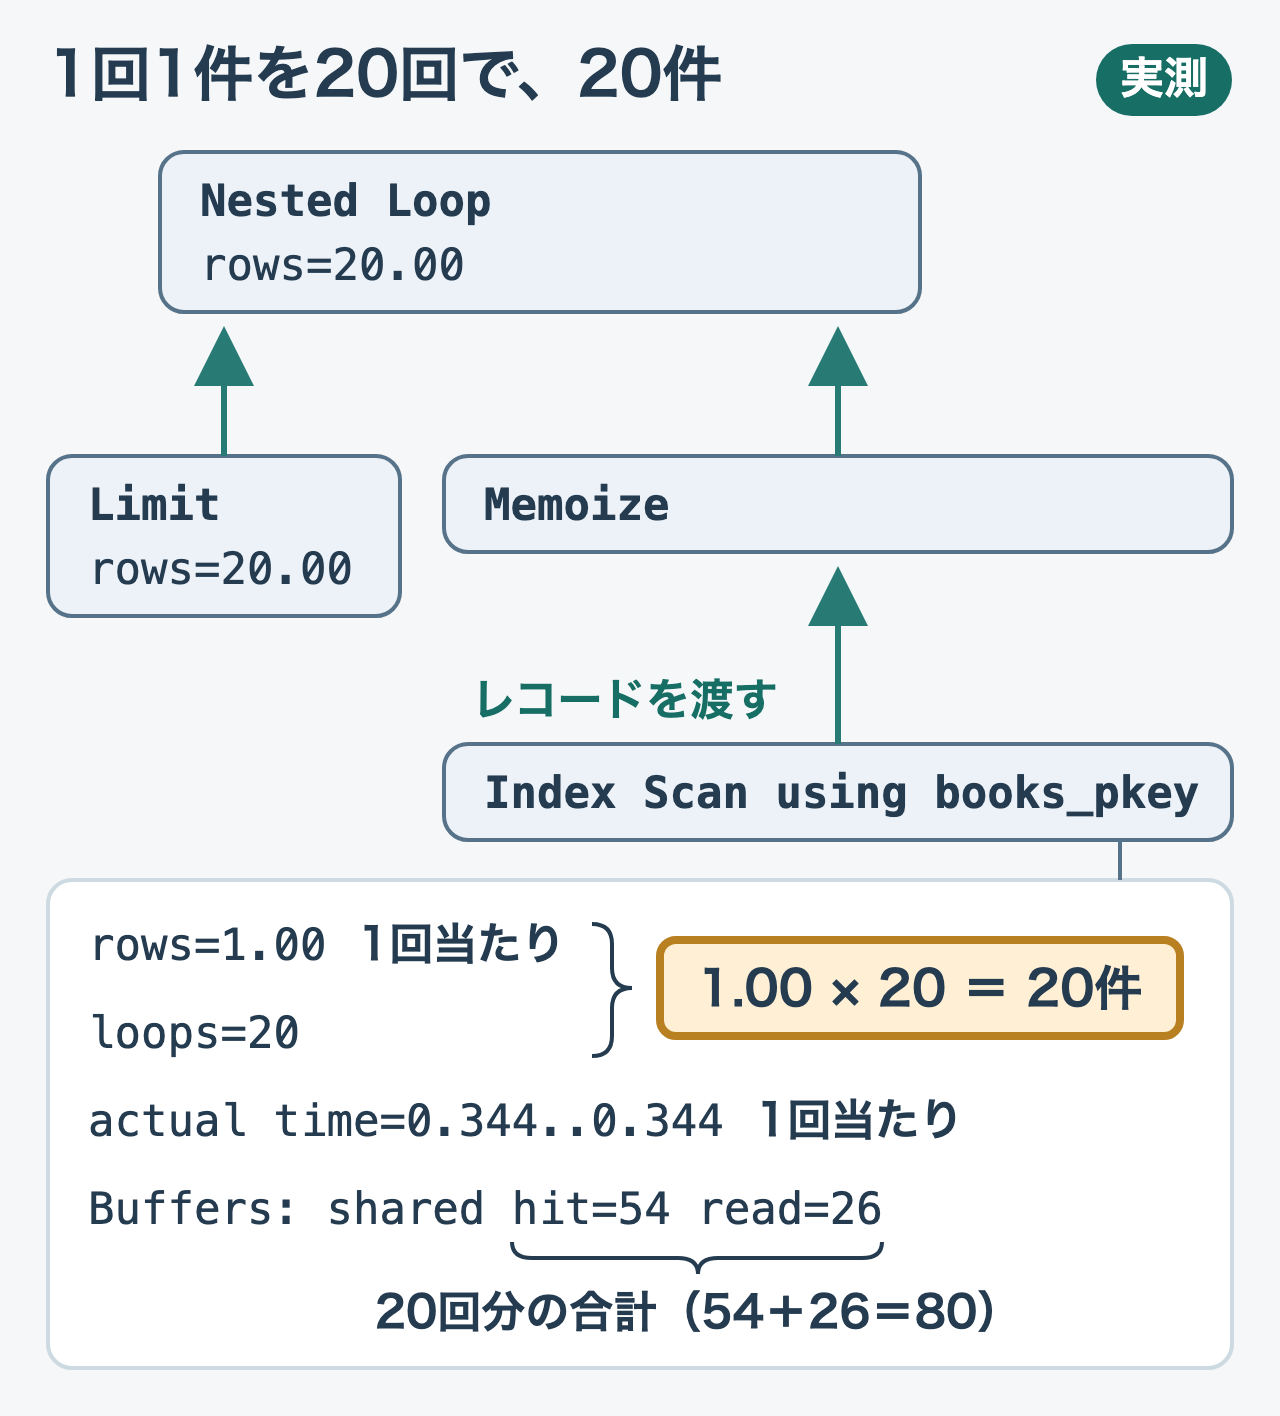
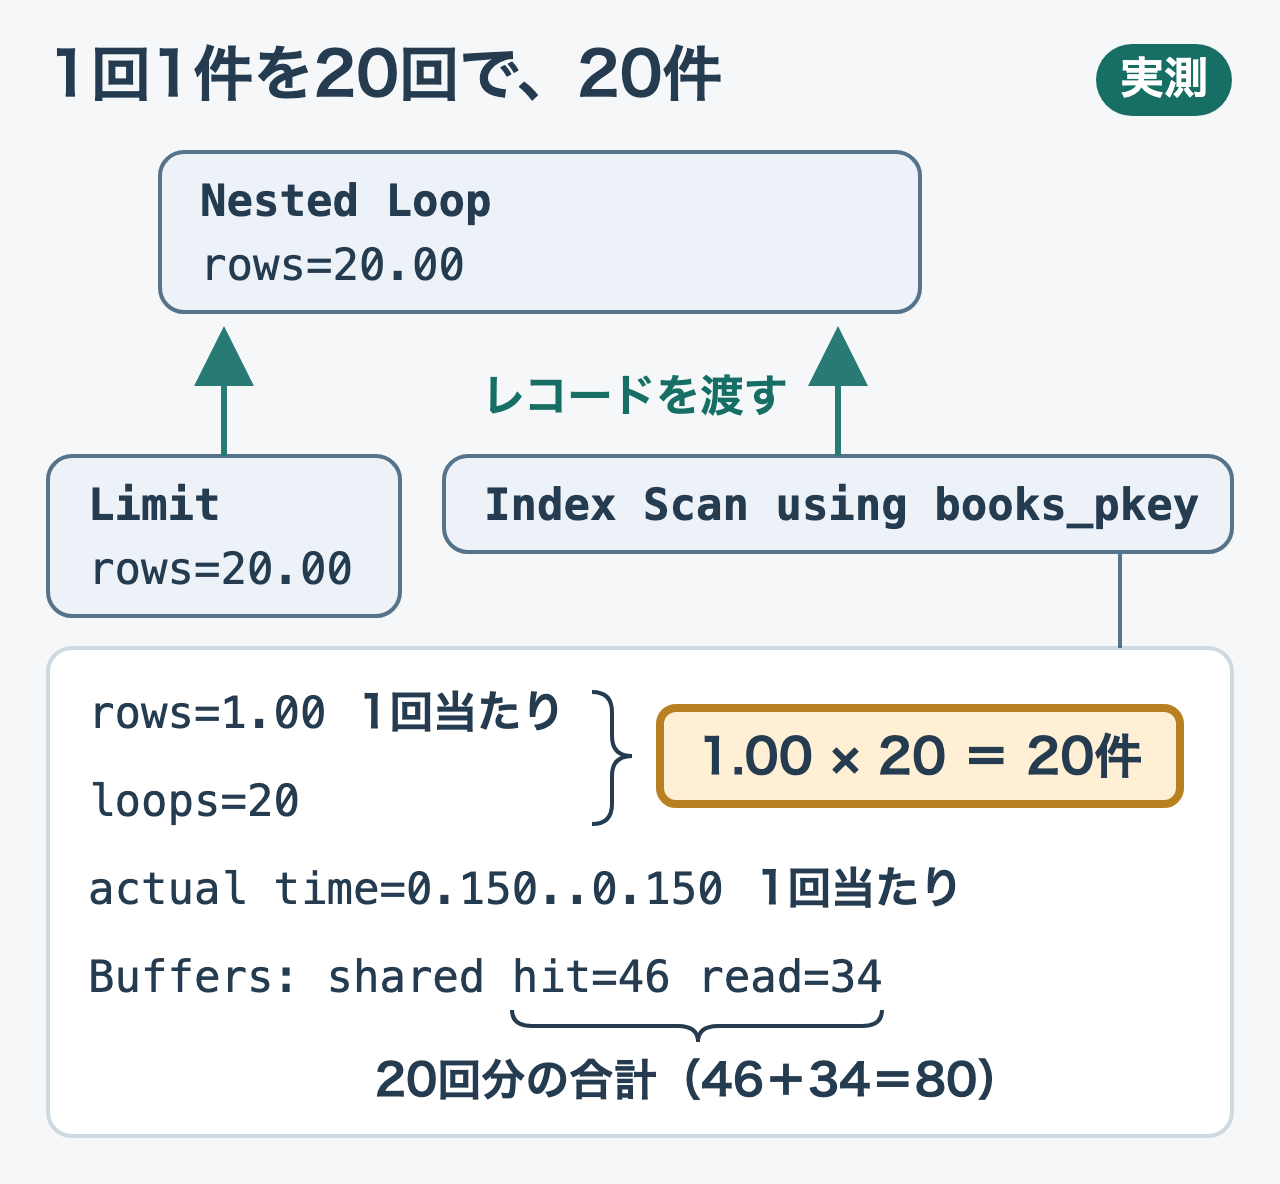
docs(query-journey): 第9章の出力を偏りのあるデータで取り直す
20件の結合・1週間分のHash Join・Merge Join・本ごとの集約の出力を、
新しいデータの実行結果に差し替える。

- 20件の結合から Memoize が消えたので、その説明の段落を外し、
  図 09-loops からも Memoize の段を外した（数字も hit=46 read=34 に）
- Merge Join は 200件から141件になった。「1冊に2件ずつ」を前提にした
  説明を、記録のある本だけが組になる説明に直した
- 集約のグループは100万個から736,097個になった。見積もりとの大きな
  ずれに一文だけ触れ、見積もりの作り方は第10章へ渡した

64kB の節の出力は、今回の再実行（旧データでも）と計画が合わないが、
偏りとは別の問題なのでこのコミットでは触れていない。

Changed region(s): [[0.0312, 0.0312, 0.9688, 0.9688], [0.8438, 0.0312, 0.9688, 0.125], [0.0625, 0.6562, 0.25, 0.6875]]

diff --git a/books/postgresql-query-journey/09-join.md b/books/postgresql-query-journey/09-join.md
@@ -55,45 +55,39 @@ ORDER BY r.finished_at DESC, r.book_id ASC;
 
 先ほどのSQLの実行結果です。条件は次のとおりです。
 
-- 2026年9月23日、DockerのPostgreSQL 18.6
+- 2026年9月26日、DockerのPostgreSQL 18.6
 - 本100万冊、読了記録200万件
 - 第8章の日時順のIndexあり
 - 並列実行とJITは無効、`work_mem`は4MB
 
 ```sql
-Nested Loop  (cost=0.86..90.18 rows=20 width=38) (actual time=0.216..7.073 rows=20.00 loops=1)
-  Buffers: shared hit=55 read=29
-  ->  Limit  (cost=0.43..1.04 rows=20 width=16) (actual time=0.101..0.111 rows=20.00 loops=1)
-        Buffers: shared hit=1 read=3
-        ->  Index Only Scan using reading_records_order_idx on reading_records  (cost=0.43..60768.43 rows=2000000 width=16) (actual time=0.097..0.105 rows=20.00 loops=1)
+Nested Loop  (cost=0.85..169.89 rows=20 width=38) (actual time=1.082..3.042 rows=20.00 loops=1)
+  Buffers: shared hit=50 read=34 written=13
+  ->  Limit  (cost=0.43..1.04 rows=20 width=16) (actual time=0.008..0.019 rows=20.00 loops=1)
+        Buffers: shared hit=4
+        ->  Index Only Scan using reading_records_order_idx on reading_records  (cost=0.43..60768.43 rows=2000000 width=16) (actual time=0.007..0.016 rows=20.00 loops=1)
               Heap Fetches: 0
               Index Searches: 1
-              Buffers: shared hit=1 read=3
-  ->  Memoize  (cost=0.43..8.45 rows=1 width=30) (actual time=0.346..0.346 rows=1.00 loops=20)
-        Cache Key: reading_records.book_id
-        Cache Mode: logical
-        Hits: 0  Misses: 20  Evictions: 0  Overflows: 0  Memory Usage: 3kB
-        Buffers: shared hit=54 read=26
-        ->  Index Scan using books_pkey on books b  (cost=0.42..8.44 rows=1 width=30) (actual time=0.344..0.344 rows=1.00 loops=20)
-              Index Cond: (id = reading_records.book_id)
-              Index Searches: 20
-              Buffers: shared hit=54 read=26
+              Buffers: shared hit=4
+  ->  Index Scan using books_pkey on books b  (cost=0.42..8.44 rows=1 width=30) (actual time=0.150..0.150 rows=1.00 loops=20)
+        Index Cond: (id = reading_records.book_id)
+        Index Searches: 20
+        Buffers: shared hit=46 read=34 written=13
 Planning:
-  Buffers: shared hit=105 read=2
-Planning Time: 1.981 ms
-Execution Time: 7.494 ms
+  Buffers: shared hit=18 read=2
+Planning Time: 0.255 ms
+Execution Time: 3.059 ms
 ```
 
 外側は、日時順のIndexから20件を取り出す`Limit`です。内側は、主キーのIndexである`books_pkey`で本を1冊探す`Index Scan`で、`loops=20`になっています。記録1件ごとに本を1回探し、それを20回繰り返しました。
 
-内側の`Memoize`は、同じ本の番号をもう一度探すときに、前の結果を使い回すための処理です。今回の20件はすべて別の本だったので、`Hits: 0  Misses: 20`となり、使い回しは起きていません。
 
 計画に`loops=20`があれば、その処理を20回実行しています。`actual rows`や`actual time`は、複数回実行では1回当たりの平均として表示されます。1回1件を20回返せば、全体では20件です。第7章で見たとおり親の時間は子を含むので、親子の時間をすべて足すと子の処理時間を二重に数えることになります。
 
 図で、内側の`Index Scan`の`rows`・`loops`・`Buffers`を、1回当たりの値と20回分の合計に分けて読んでください。
 
-![Nested Loopの内側のIndex Scanはrows=1.00、loops=20で、1回1件を20回返して全体で20件。Buffersのhit=54とread=26は20回分の合計](/images/postgresql-query-journey/09-loops.png)
-*rows=1.00とloops=20を掛けると20件です。Buffersのhit=54とread=26は、20回分の合計です（実測）。*
+![Nested Loopの内側のIndex Scanはrows=1.00、loops=20で、1回1件を20回返して全体で20件。Buffersのhit=46とread=34は20回分の合計](/images/postgresql-query-journey/09-loops.png)
+*rows=1.00とloops=20を掛けると20件です。Buffersのhit=46とread=34は、20回分の合計です（実測）。*
 
 ## 何十万回も探すなら？
 
@@ -113,23 +107,23 @@ WHERE r.finished_at >= timestamp '2026-09-14'
 1週間分へ広げたSQLの実行結果です。条件は20件のときと同じです。
 
 ```sql
-Hash Join  (cost=36689.43..66472.66 rows=500739 width=30) (actual time=307.583..649.631 rows=499998.00 loops=1)
+Hash Join  (cost=36689.43..65899.61 rows=488229 width=30) (actual time=220.657..462.415 rows=499998.00 loops=1)
   Hash Cond: (r.book_id = b.id)
-  Buffers: shared hit=4207 read=5065, temp read=7569 written=7569
-  ->  Index Only Scan using reading_records_order_idx on reading_records r  (cost=0.43..17719.21 rows=500739 width=8) (actual time=0.008..126.412 rows=499998.00 loops=1)
+  Buffers: shared hit=6482 read=2790 written=94, temp read=7404 written=7404
+  ->  Index Only Scan using reading_records_order_idx on reading_records r  (cost=0.43..17277.01 rows=488229 width=8) (actual time=0.009..35.626 rows=499998.00 loops=1)
         Index Cond: ((finished_at >= '2026-09-14 00:00:00'::timestamp without time zone) AND (finished_at < '2026-09-21 00:00:00'::timestamp without time zone))
         Heap Fetches: 0
         Index Searches: 1
-        Buffers: shared hit=4 read=1915
-  ->  Hash  (cost=17353.00..17353.00 rows=1000000 width=30) (actual time=307.533..307.533 rows=1000000.00 loops=1)
-        Buckets: 131072  Batches: 16  Memory Usage: 4940kB
-        Buffers: shared hit=4203 read=3150, temp written=5943
-        ->  Seq Scan on books b  (cost=0.00..17353.00 rows=1000000 width=30) (actual time=0.026..173.931 rows=1000000.00 loops=1)
-              Buffers: shared hit=4203 read=3150
+        Buffers: shared hit=1919
+  ->  Hash  (cost=17353.00..17353.00 rows=1000000 width=30) (actual time=220.387..220.388 rows=1000000.00 loops=1)
+        Buckets: 131072  Batches: 16  Memory Usage: 4952kB
+        Buffers: shared hit=4563 read=2790 written=94, temp written=5943
+        ->  Seq Scan on books b  (cost=0.00..17353.00 rows=1000000 width=30) (actual time=0.008..84.017 rows=1000000.00 loops=1)
+              Buffers: shared hit=4563 read=2790 written=94
 Planning:
-  Buffers: shared hit=18
-Planning Time: 0.170 ms
-Execution Time: 664.568 ms
+  Buffers: shared hit=15
+Planning Time: 0.129 ms
+Execution Time: 477.379 ms
 ```
 
 今度は`Hash Join`が選ばれました。何十万回も別々に本を探す代わりに、先に照合用のハッシュ表を作る方法です。
@@ -149,7 +143,7 @@ Execution Time: 664.568 ms
 
 `Batches: 16`と`temp`の値は、ハッシュ表が作業用メモリに収まらず一時ファイルを使ったことを示します。ハッシュのメモリ量には`work_mem`に加えて`hash_mem_multiplier`も関わります。詳しくは、この章の後半で読みます。
 
-20件のときとSQLの形はほとんど同じです。変わったのは、外側から届く記録の件数でした。外側の推定は、Nested Loopの計画で`rows=20`、Hash Joinの計画で`rows=500739`です。件数の違いを実行前にどう見込んだのかは、第10章で調べます。
+20件のときとSQLの形はほとんど同じです。変わったのは、外側から届く記録の件数でした。外側の推定は、Nested Loopの計画で`rows=20`、Hash Joinの計画で`rows=488229`です。件数の違いを実行前にどう見込んだのかは、第10章で調べます。
 
 ## すでに並んでいるなら、合流できる
 
@@ -180,34 +174,34 @@ WHERE b.id <= 100;
 ROLLBACK;
 ```
 
-2026年9月25日、PostgreSQL 18.6での実行結果です。本100万冊・読了記録200万件、並列実行とJITは無効です。 `work_mem`は4MBです。
+2026年9月26日、PostgreSQL 18.6での実行結果です。本100万冊・読了記録200万件、並列実行とJITは無効です。 `work_mem`は4MBです。
 
 :::details Merge Joinの実行結果
 ```sql
-Merge Join  (cost=308490.11..318500.51 rows=220 width=16) (actual time=559.465..559.520 rows=200.00 loops=1)
+Merge Join  (cost=308490.01..318500.50 rows=214 width=16) (actual time=563.927..563.970 rows=141.00 loops=1)
   Merge Cond: (r.book_id = b.id)
-  Buffers: shared hit=10815, temp read=6854 written=12751
-  ->  Sort  (cost=308488.69..313488.69 rows=2000000 width=16) (actual time=559.428..559.442 rows=201.00 loops=1)
+  Buffers: shared hit=8871 read=1944, temp read=6854 written=12751
+  ->  Sort  (cost=308488.69..313488.69 rows=2000000 width=16) (actual time=563.892..563.902 rows=142.00 loops=1)
         Sort Key: r.book_id
         Sort Method: external merge  Disk: 50896kB
-        Buffers: shared hit=10811, temp read=6854 written=12751
-        ->  Seq Scan on reading_records r  (cost=0.00..30811.00 rows=2000000 width=16) (actual time=0.011..135.107 rows=2000000.00 loops=1)
-              Buffers: shared hit=10811
-  ->  Index Only Scan using books_pkey on books b  (cost=0.42..10.35 rows=110 width=8) (actual time=0.030..0.043 rows=100.00 loops=1)
+        Buffers: shared hit=8867 read=1944, temp read=6854 written=12751
+        ->  Seq Scan on reading_records r  (cost=0.00..30811.00 rows=2000000 width=16) (actual time=0.165..125.741 rows=2000000.00 loops=1)
+              Buffers: shared hit=8867 read=1944
+  ->  Index Only Scan using books_pkey on books b  (cost=0.42..10.30 rows=107 width=8) (actual time=0.028..0.040 rows=100.00 loops=1)
         Index Cond: (id <= 100)
         Heap Fetches: 100
         Index Searches: 1
         Buffers: shared hit=4
 Planning:
   Buffers: shared hit=12
-Planning Time: 0.169 ms
-Execution Time: 563.841 ms
+Planning Time: 0.165 ms
+Execution Time: 568.076 ms
 ```
 :::
 
-本の側は主キーのIndexから番号順に100件を返しています。記録の側はSeq Scanで200万件を読み、`Sort Key: r.book_id`で並べ替えました。Sortが親へ返したのは201件ですが、その子の入力は200万件です。並べ替えの準備まで201件で済んだ、とは読めません。
+本の側は主キーのIndexから番号順に100件を返しています。記録の側はSeq Scanで200万件を読み、`Sort Key: r.book_id`で並べ替えました。Sortが親へ返したのは142件ですが、その子の入力は200万件です。並べ替えの準備まで142件で済んだ、とは読めません。
 
-結合が返したのは200件です。このデータでは本1冊に記録が2件ずつあるので、本100冊と組になる記録は200件になります。少数の結果を返すために、大きな並べ替えが追加された例です。方法を固定する設定は仕組みを観察するためで、本番へそのまま持ち込むものではありません。
+結合が返したのは141件です。本100冊のうち、記録のある本だけが、その本の記録の件数だけ組になります。記録が一度もない本は組になりません。少数の結果を返すために、大きな並べ替えが追加された例です。方法を固定する設定は仕組みを観察するためで、本番へそのまま持ち込むものではありません。
 
 ## 数えるときは、グループごとにメモする
 
@@ -232,17 +226,17 @@ FROM reading_records GROUP BY book_id;
 同日の集約の実行結果です。
 
 ```sql
-HashAggregate  (cost=143311.00..168847.22 rows=991122 width=16) (actual time=586.125..916.907 rows=1000000.00 loops=1)
+HashAggregate  (cost=40811.00..41599.81 rows=78881 width=16) (actual time=421.904..611.755 rows=736097.00 loops=1)
   Group Key: book_id
-  Planned Partitions: 16  Batches: 17  Memory Usage: 8345kB  Disk Usage: 63520kB
-  Buffers: shared hit=10811, temp read=6150 written=13645
-  ->  Seq Scan on reading_records  (cost=0.00..30811.00 rows=2000000 width=8) (actual time=0.018..125.241 rows=2000000.00 loops=1)
-        Buffers: shared hit=10811
-Planning Time: 0.069 ms
-Execution Time: 951.731 ms
+  Batches: 21  Memory Usage: 8257kB  Disk Usage: 27752kB
+  Buffers: shared hit=8961 read=1850, temp read=4090 written=6731
+  ->  Seq Scan on reading_records  (cost=0.00..30811.00 rows=2000000 width=8) (actual time=0.178..102.246 rows=2000000.00 loops=1)
+        Buffers: shared hit=8961 read=1850
+Planning Time: 0.070 ms
+Execution Time: 634.511 ms
 ```
 
-入力は200万件、`HashAggregate`が返したグループは100万個です。1冊に2件ずつの記録があるため、件数は半分になりました。`Memory Usage: 8345kB`に加え、`Batches: 17`と`Disk Usage`もあります。100万個のカウンタを一度にメモリへ置けず、一時ファイルも使っています。
+入力は200万件、`HashAggregate`が返したグループは736,097個です。記録が一度もない本はグループになりません。`Memory Usage: 8257kB`に加え、`Batches: 21`と`Disk Usage`もあります。73万個余りのカウンタを一度にメモリへ置けず、一時ファイルも使っています。なお、実行前の見積もり`rows=78881`は、実際の736,097個よりかなり少なくなっています。見積もりをどう作っているかは、第10章で調べます。
 
 別の環境で`GroupAggregate`とSortが見えたら、先に並べ替え、隣り合った同じ番号をまとめる方式です。
 
@@ -274,7 +268,7 @@ SHOW hash_mem_multiplier;
 (1 row)
 ```
 
-先ほどの1週間分のHash Joinは、`work_mem`が4MBの状態で`Batches: 16`となり、`temp read=7569 written=7569`も出ていました。本100万件のハッシュ表を一度にメモリへ置けず、16個に分けて一時ファイルを使いながら照合したと読めます。
+先ほどの1週間分のHash Joinは、`work_mem`が4MBの状態で`Batches: 16`となり、`temp read=7404 written=7404`も出ていました。本100万件のハッシュ表を一度にメモリへ置けず、16個に分けて一時ファイルを使いながら照合したと読めます。
 
 さらに小さなメモリで比べるなら、`BEGIN`の後に`SET LOCAL work_mem = '64kB'`を実行し、同じSQLを実行してから`ROLLBACK`します。
 
